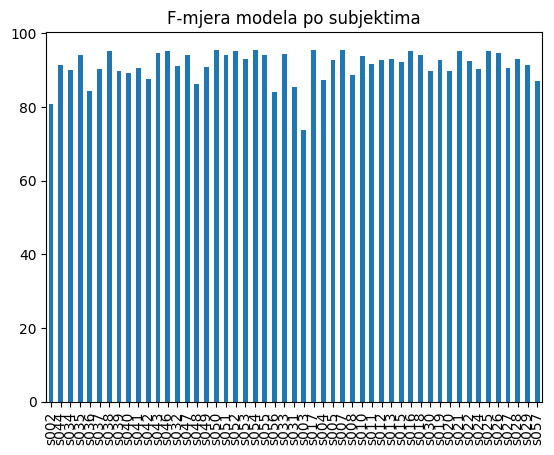
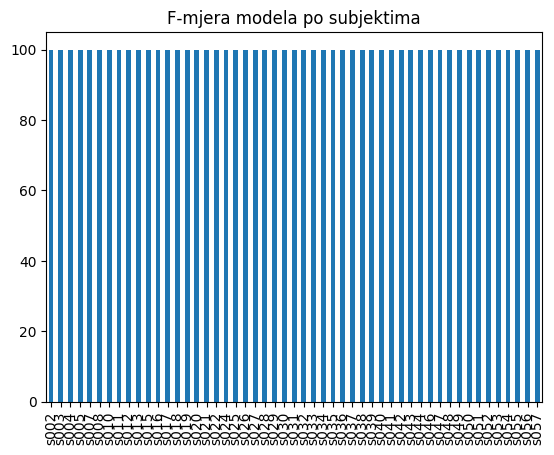
wrong implementation of split

diff --git a/functions.py b/functions.py
@@ -8,43 +8,85 @@ from sklearn.ensemble import RandomForestClassifier
 from sklearn.metrics import confusion_matrix, precision_score, accuracy_score
 import matplotlib.pyplot as plt
 
-def prepareForModelUse(populatedDataframe: DataFrame):
+def prepareForModelUse(populatedDataFrame: DataFrame):
     
     # Uklanjanje nepotrebnih svojstava skupa podataka
-    populatedDataframe.drop('sessionIndex', axis = 1, inplace = True)
-    populatedDataframe.drop('rep', axis = 1, inplace = True)
+    populatedDataFrame.drop('sessionIndex', axis = 1, inplace = True)
+    populatedDataFrame.drop('rep', axis = 1, inplace = True)
 
     # Razdvajanje skupa podataka na 2 cjeline. Y oznacava skup podataka
     # koji sadrzi korisnike dok je X skup podataka kojega model strojnog
     # ucenja treba razvrstati (prepoznati) prema skupu X
-    X = populatedDataframe[['H.period', 'DD.period.t', 
-    'UD.period.t', 'H.t', 'DD.t.i', 'UD.t.i', 'H.i', 'DD.i.e', 
-    'UD.i.e', 'H.e', 'DD.e.five', 'UD.e.five', 'H.five', 'DD.five.Shift.r', 
-    'UD.five.Shift.r', 'H.Shift.r', 'DD.Shift.r.o', 'UD.Shift.r.o', 'H.o',
-    'DD.o.a', 'UD.o.a', 'H.a', 'DD.a.n', 'UD.a.n', 'H.n', 'DD.n.l', 'UD.n.l',
-    'H.l', 'DD.l.Return', 'UD.l.Return', 'H.Return']]
-    Y = populatedDataframe['subject']
+    X = populatedDataFrame
 
     # Podijeli prethodne skupove podataka na skupove za treniranje modela 
     # strojnog ucenja i skupove za testiranje modela strojnog ucenja
-    X_train, X_test, y_train, y_test = train_test_split(
-    X, Y, random_state=104,test_size=0.25, shuffle=True)
+    X_train = pd.DataFrame()
+    X_test = pd.DataFrame()
+    
+    trainBatchSize = 320
+    testBatchSize = 80
+    
+    for i in range(0, len(X), trainBatchSize + testBatchSize):
+        currentXBatch = X.iloc[i:i + trainBatchSize + testBatchSize]
+        trainXBatch = currentXBatch.iloc[:trainBatchSize]
+        testXBatch = currentXBatch.iloc[:trainBatchSize]
+        
+        X_train = X_train._append(trainXBatch, ignore_index = True)
+        X_test = X_test._append(testXBatch, ignore_index = True)
 
+    
+    Y_train = X_train['subject']
+    Y_test = X_test['subject']
+    
+    X_train = X_train.drop(columns=['subject'])
+    X_test = X_test.drop(columns=['subject'])
+    
     # Normaliziranje skupova podataka kako bi predvidanje modela 
     # bilo sto preciznije
     scaler = StandardScaler()
     scaler.fit(X_train)
     X_train = scaler.transform(X_train)
     X_test = scaler.transform(X_test)
-    return X_train, X_test, y_train, y_test
+    
+    return X_train, X_test, Y_train, Y_test
+
+# def splitDataFrame(populatedDataFrame: DataFrame):
+#     X_train = pd.DataFrame()
+#     X_test = pd.DataFrame()
+    
+#     trainBatchSize = 320
+#     testBatchSize = 80
+    
+#     for i in range(0, len(populatedDataFrame), trainBatchSize + testBatchSize):
+#         currentXBatch = populatedDataFrame.iloc[i:i + trainBatchSize + testBatchSize]
+#         trainXBatch = currentXBatch.iloc[:trainBatchSize]
+#         testXBatch = currentXBatch.iloc[trainBatchSize:trainBatchSize + testBatchSize]
+        
+#         X_train = X_train._append(trainXBatch, ignore_index = True)
+#         X_test = X_test._append(testXBatch, ignore_index = True)
+        
+#     return X_train, X_test
 
 def useModel(trainDF_Y, trainDF_X, y_test, testDF_X, model: RandomForestClassifier):
+    
+    # Treniranje modela strojnog ucenja
     model.fit(trainDF_X, trainDF_Y.values.ravel())
+    
+    # Testiranje modela strojnog ucenja
     prediction = model.predict(testDF_X)
+    
+    # Izrada konfuzijske matrice predvidanja kako bi mogli izracunati
+    # statisticke pokazatelje modela strojnog ucenja
     confusionMatrix = confusion_matrix(y_test, prediction)
+    
     return confusionMatrix, prediction
 
+
 def calculateStatisticalData(confusionMatrix: confusion_matrix, y_test, prediction):
+    
+    # Izracun statistickih pokazatelja modela strojnog ucenja
+    # iz dobivene konfuzijske matrice
     truePositive = np.diag(confusionMatrix)
     falsePositive = confusionMatrix.sum(axis=0) - np.diag(confusionMatrix)
     falseNegative = confusionMatrix.sum(axis=1) - np.diag(confusionMatrix)
@@ -56,6 +98,8 @@ def calculateStatisticalData(confusionMatrix: confusion_matrix, y_test, predicti
     accuracy = accuracy_score(y_test, prediction) * 100
     fMeassure = 2 * ((precision * recall) / (precision + recall))
     
+    # Spremanje dobivenih statistickih podataka u rijecnik za
+    # jednostavnije koristenje kasnije
     statisticalData = dict()
     statisticalData['truePositive'] = truePositive
     statisticalData['falsePositive'] = falsePositive
@@ -67,16 +111,12 @@ def calculateStatisticalData(confusionMatrix: confusion_matrix, y_test, predicti
     statisticalData['trueNegativeRate'] = trueNegativeRate
     statisticalData['accuracy'] = accuracy
     statisticalData['fMeassure'] = fMeassure
+    
     return statisticalData
 
 def plotStatisticalData(statisticalData: dict, index):
-    # # Preciznost
-    # precisonValuesDF = pd.DataFrame(list(statisticalData.get("precision")), index = ['Vrijednosti pokazatelja'])
-    # precisonValuesDF.plot(kind = 'bar')
-    # plt.xticks(rotation=0)
-    # plt.title('Preciznost pojedinog modela')
-    # plt.legend(bbox_to_anchor=(1.02, 0.1), loc='upper left', borderaxespad=0)
-    # plt.savefig('precision.png',bbox_inches='tight')
+    
+    # Iscrtavanje odabranih pokazatelja modela strojnog ucenja
     # Opoziv
     recallValuesDF = pd.DataFrame(list(statisticalData.get("recall")), index = index)
     recallValuesDF.plot(kind = 'bar')
@@ -98,13 +138,6 @@ def plotStatisticalData(statisticalData: dict, index):
     plt.title('Stopa točnih klasifikacija normalnih zapisa po subjektima')
     plt.legend().remove()
     plt.savefig('tnr.png',bbox_inches='tight')
-    # # Točnost
-    # accuracyValuesDF = pd.DataFrame(statisticalData.get("accuracy"), index = ['Vrijednosti pokazatelja'])
-    # accuracyValuesDF.plot(kind = 'bar')
-    # plt.xticks(rotation=0)
-    # plt.title('Točnost modela')
-    # plt.legend(bbox_to_anchor=(1.02, 0.1), loc='upper left', borderaxespad=0)
-    # plt.savefig('accuracy.png',bbox_inches='tight')
     # F-mjera
     fMeassureValuesDF = pd.DataFrame(statisticalData.get("fMeassure"), index = index)
     fMeassureValuesDF.plot(kind = 'bar')

diff --git a/main.py b/main.py
@@ -22,14 +22,18 @@ datasetDF = pd.read_csv(datasetFilePath)
 
 # Spremanje liste subjekata za kasnije koristenje s 
 # statistickim podacima
-subjectsListDF = datasetDF['subject'].value_counts()
-index = subjectsListDF.index.tolist()
+index = datasetDF['subject'].unique()
+print(index)
 
 # 3. Priprema skupa podataka #
 
 # Koristenje napravljene metode za pripremu skupa podataka 
 # za unos u model strojng ucenja
-X_train, X_test, y_train, y_test = prepareForModelUse(datasetDF)
+X_train, X_test, Y_train, Y_test = prepareForModelUse(datasetDF)
+print(X_train)
+print(X_test)
+print(Y_train)
+print(Y_test)
 
 # 4. Unos skupa podataka u model strojnog ucenja #
 
@@ -37,12 +41,12 @@ X_train, X_test, y_train, y_test = prepareForModelUse(datasetDF)
 modelRF = RandomForestClassifier(n_estimators = 30)
 
 # Koristenje napravljene metode za rad nad modelom strojnog ucenja
-confusionMatrix, prediction = useModel(y_train, X_train, y_test, X_test, modelRF)
+confusionMatrix, prediction = useModel(Y_train, X_train, Y_test, X_test, modelRF)
 
 # 5. Izracun statistickih pokazatelja modela strojnog ucenja #
 
 # TODO Opis metode za izracun statistike
-statisticalData = calculateStatisticalData(confusionMatrix, y_test, prediction)
+statisticalData = calculateStatisticalData(confusionMatrix, Y_test, prediction)
 
 # TODO Opis metode za crtanje
 plotStatisticalData(statisticalData, index)
